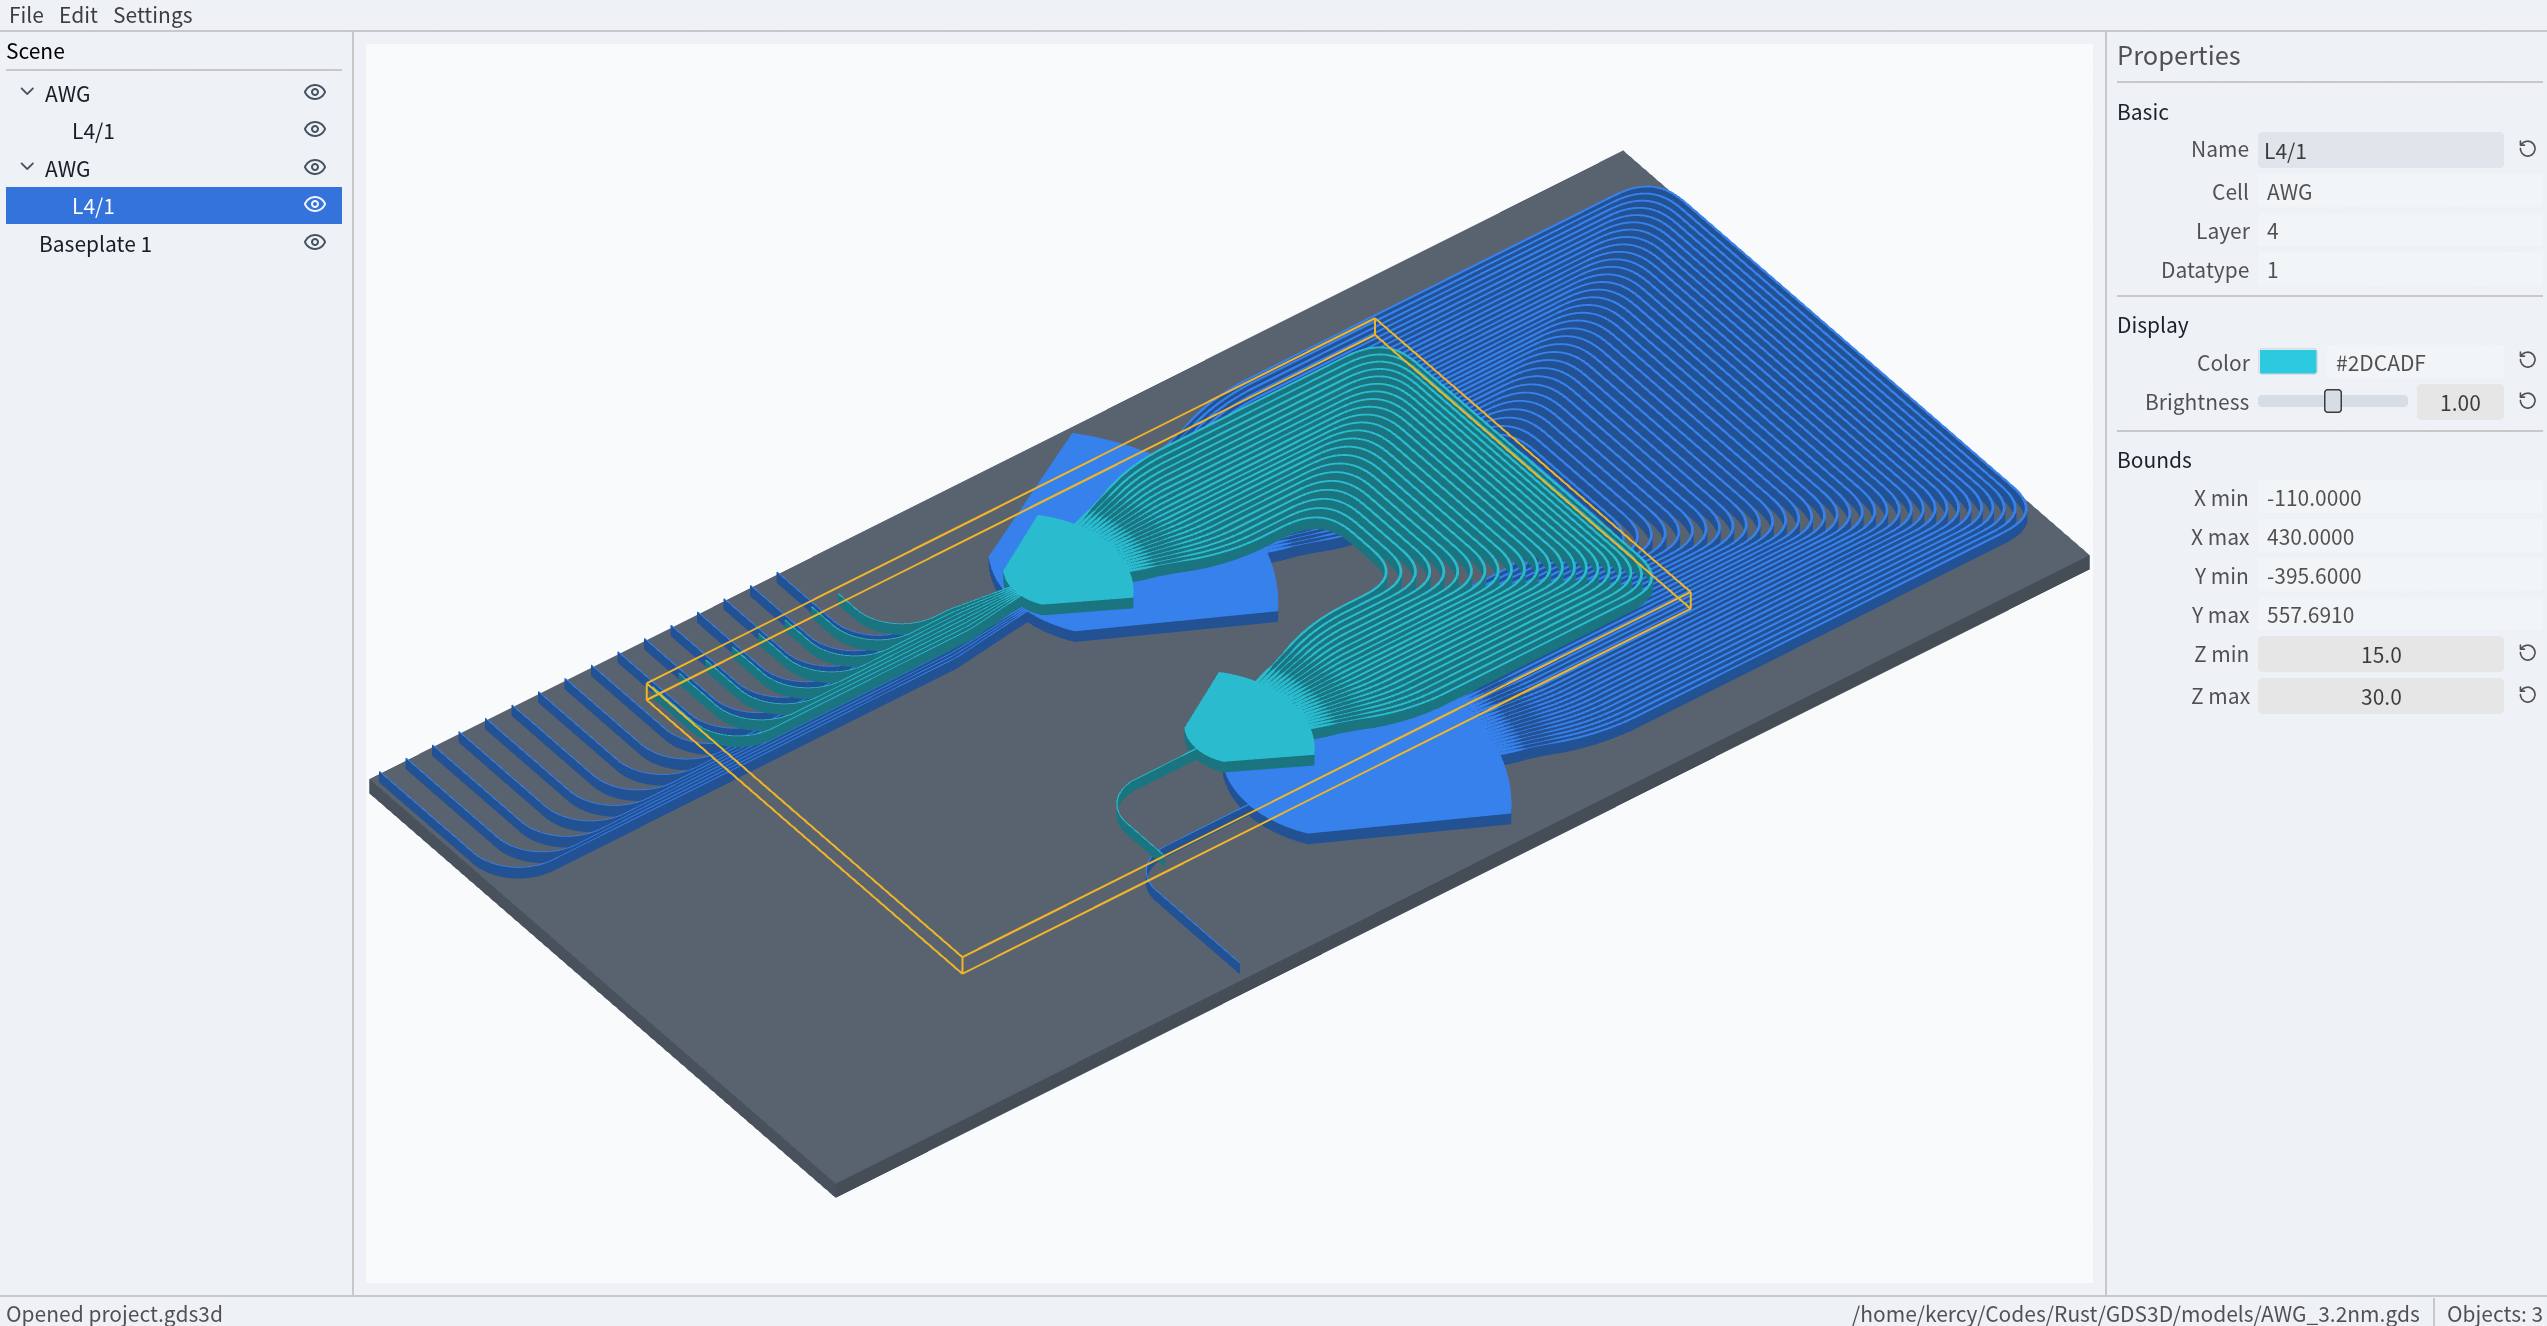
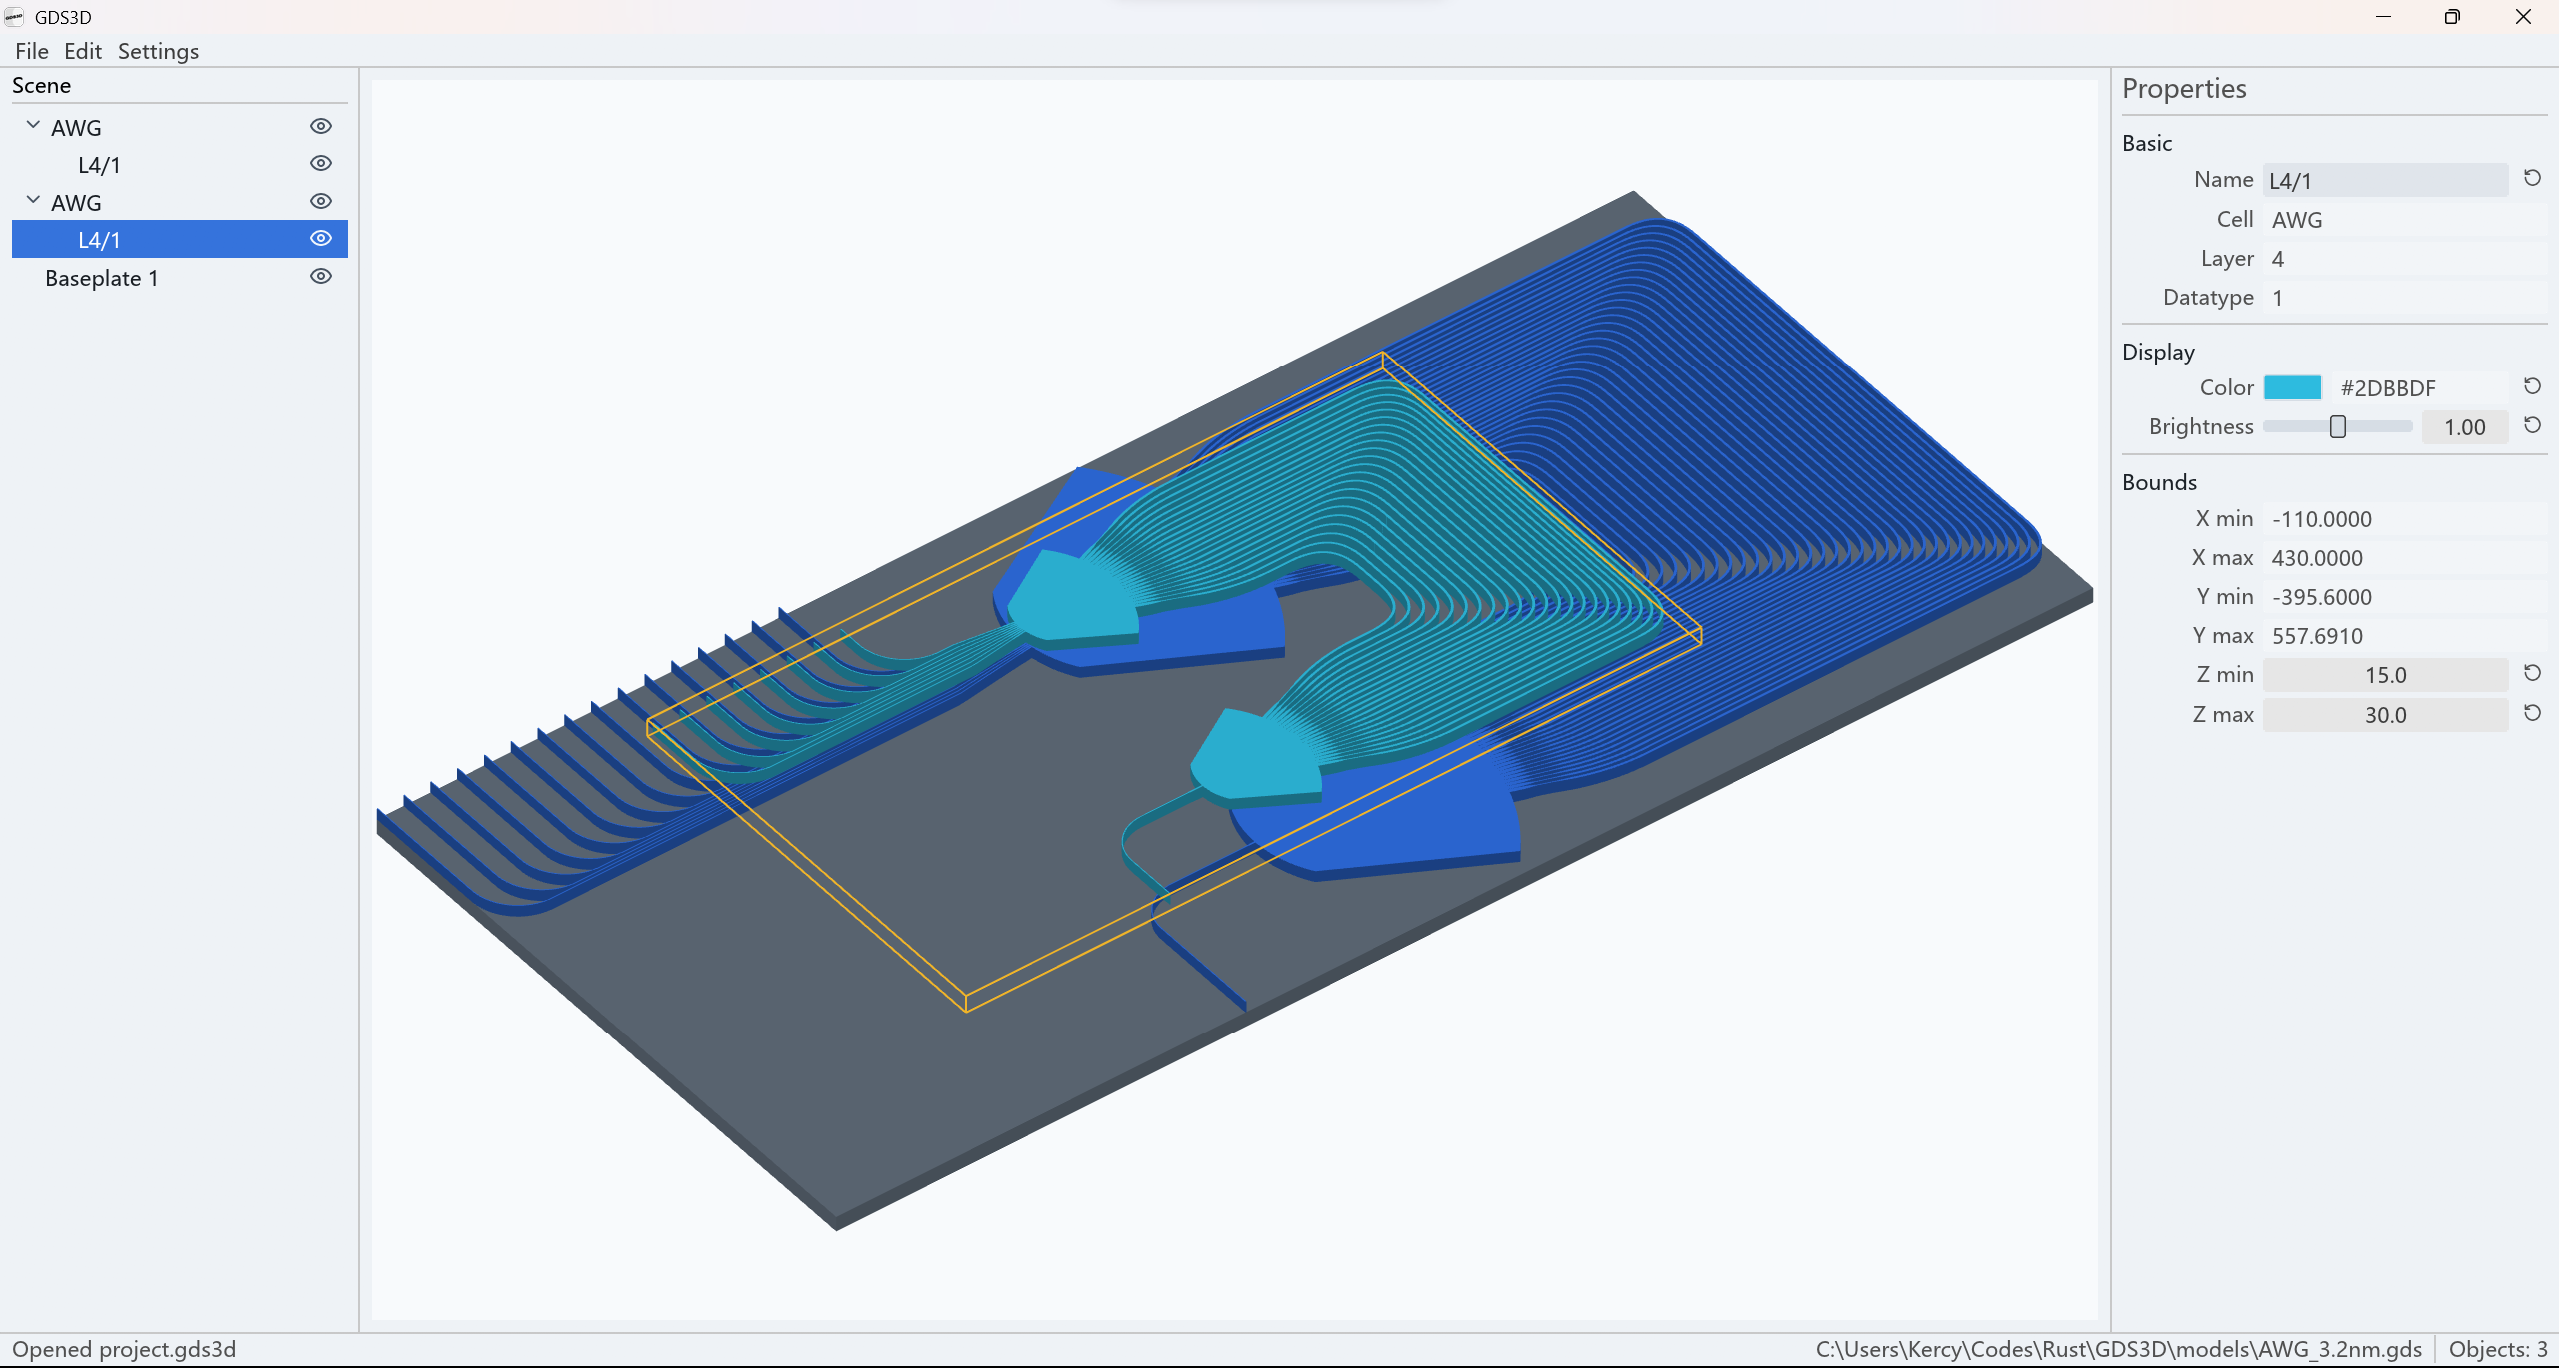
docs: nothing

diff --git a/README.md b/README.md
@@ -1,6 +1,6 @@
 # GDS3D
 
-A 3D visualization editor for GDS layouts.
+A 3D visualization editor for GDS layouts built with [egui](https://github.com/emilk/egui).
 
 GDS3D imports GDS files, builds an interactive 3D scene, and exports figures or project files.
 